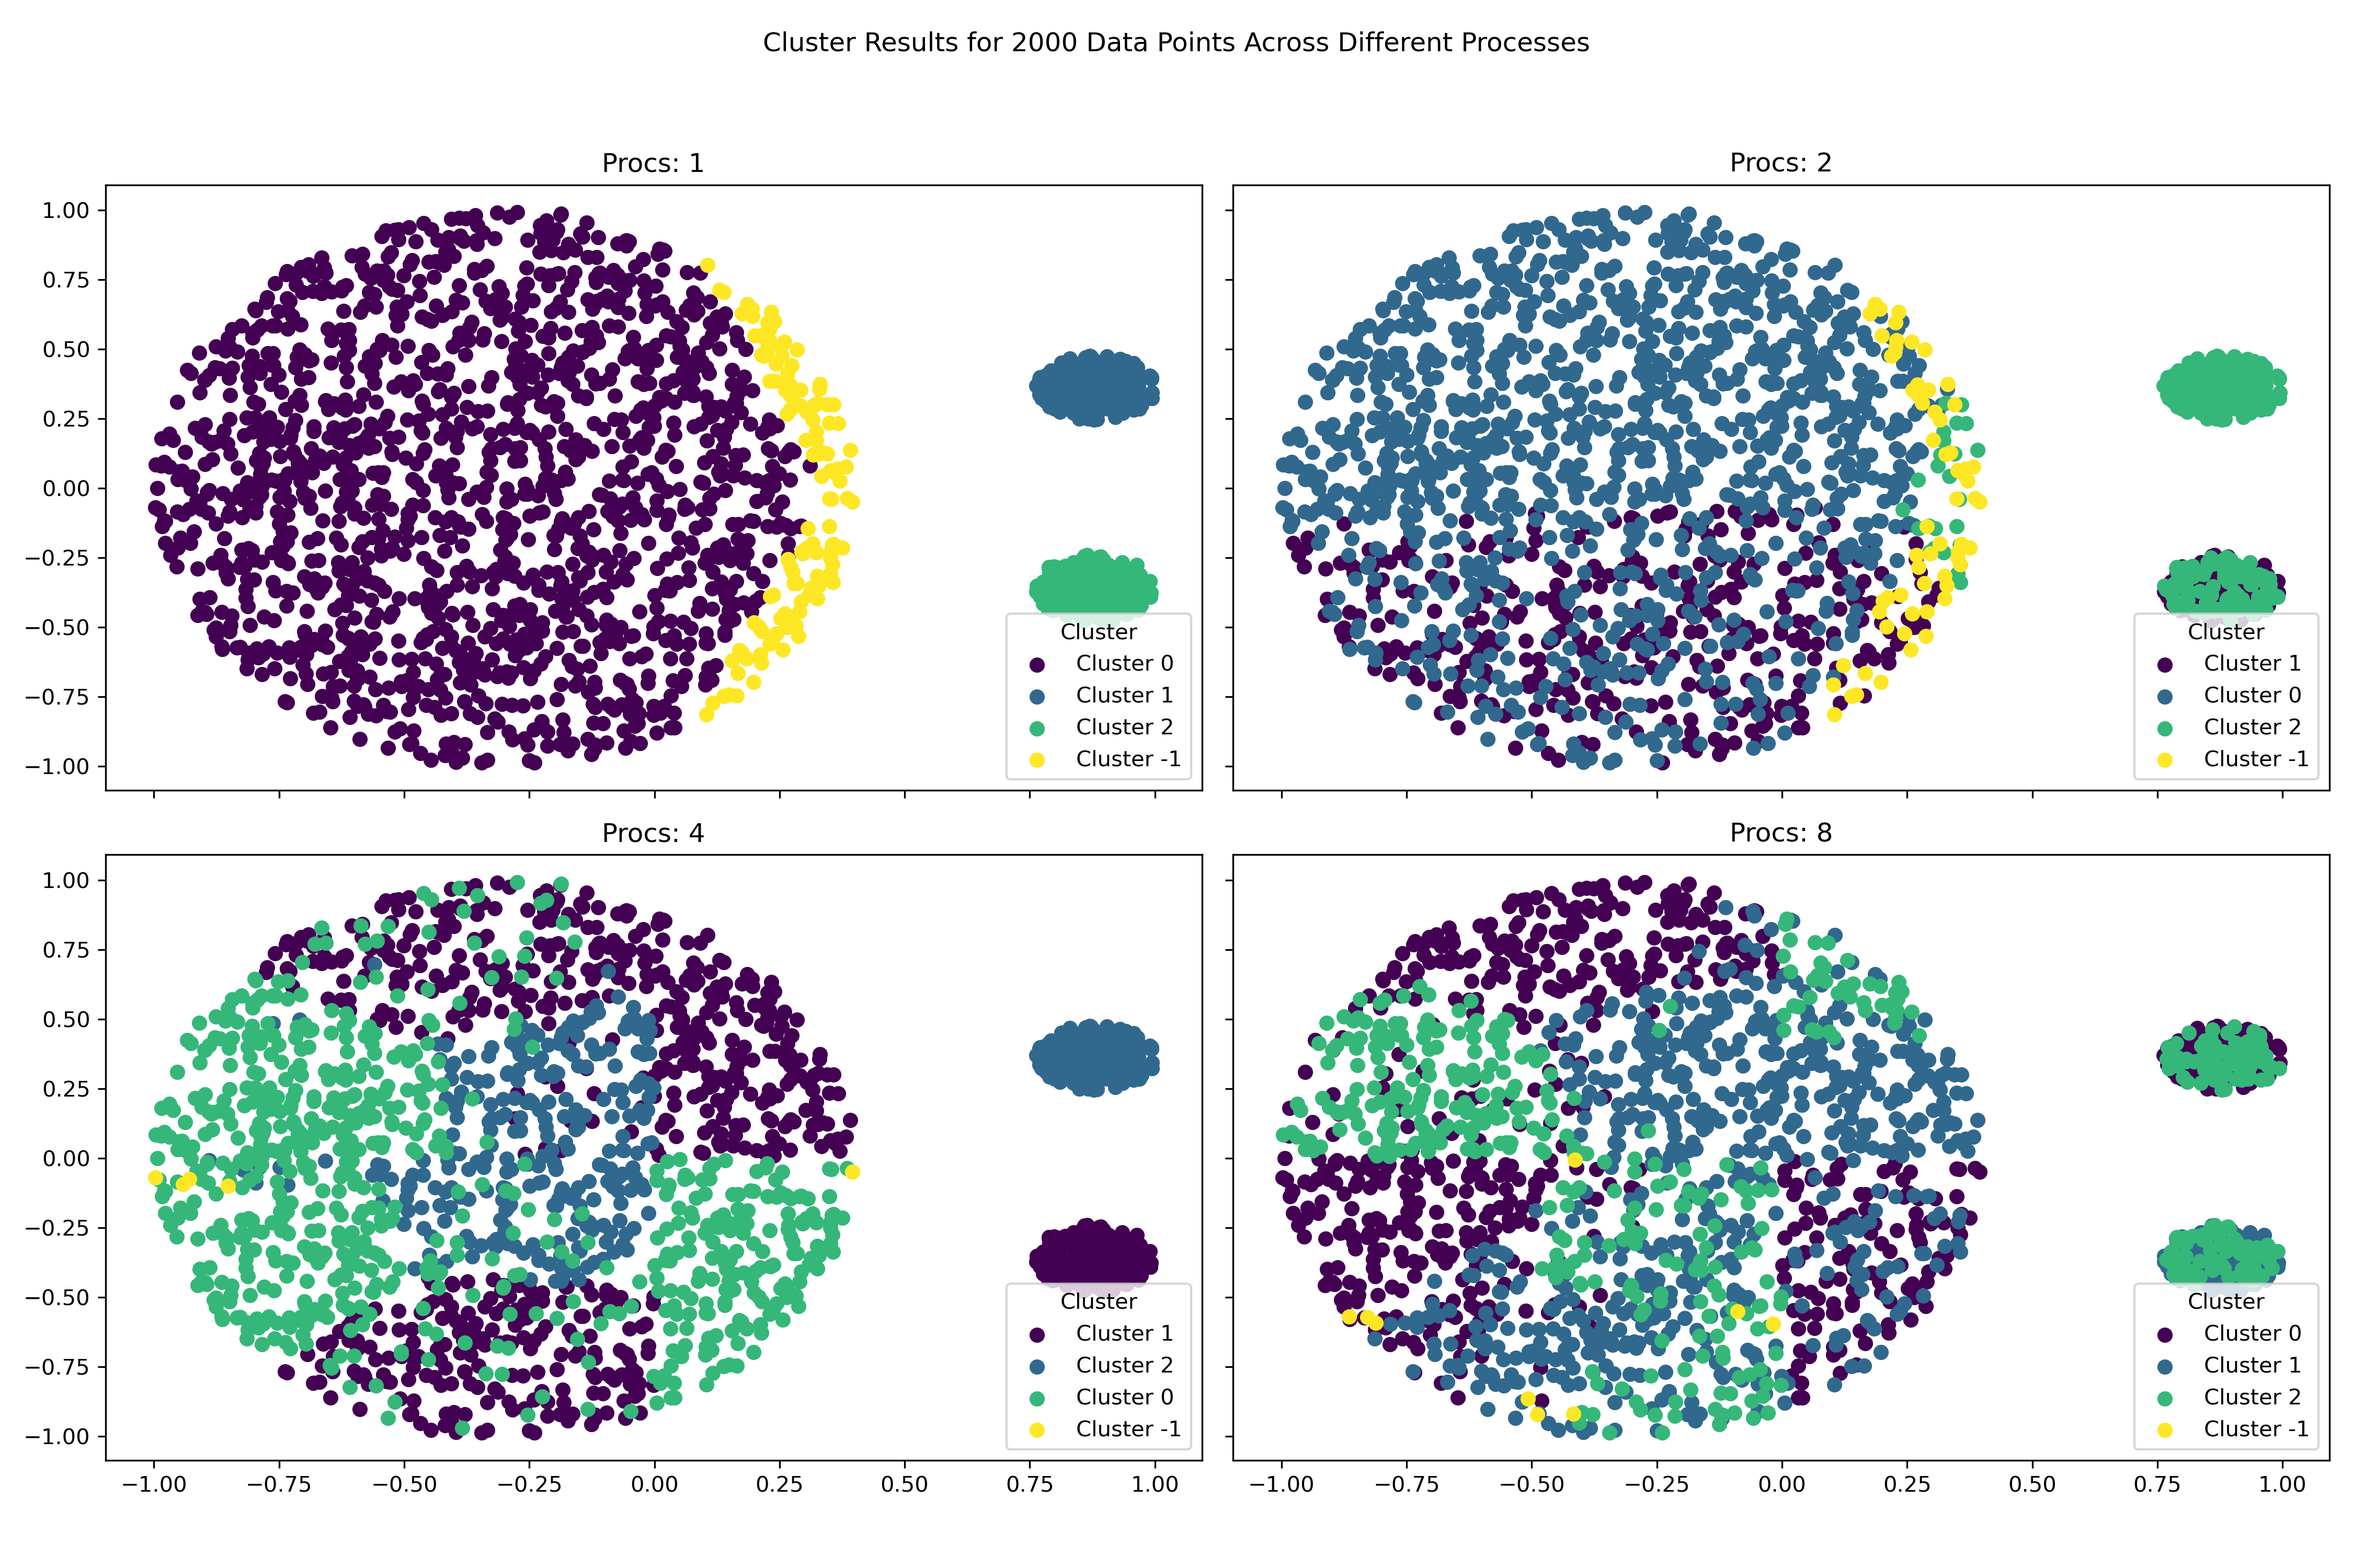
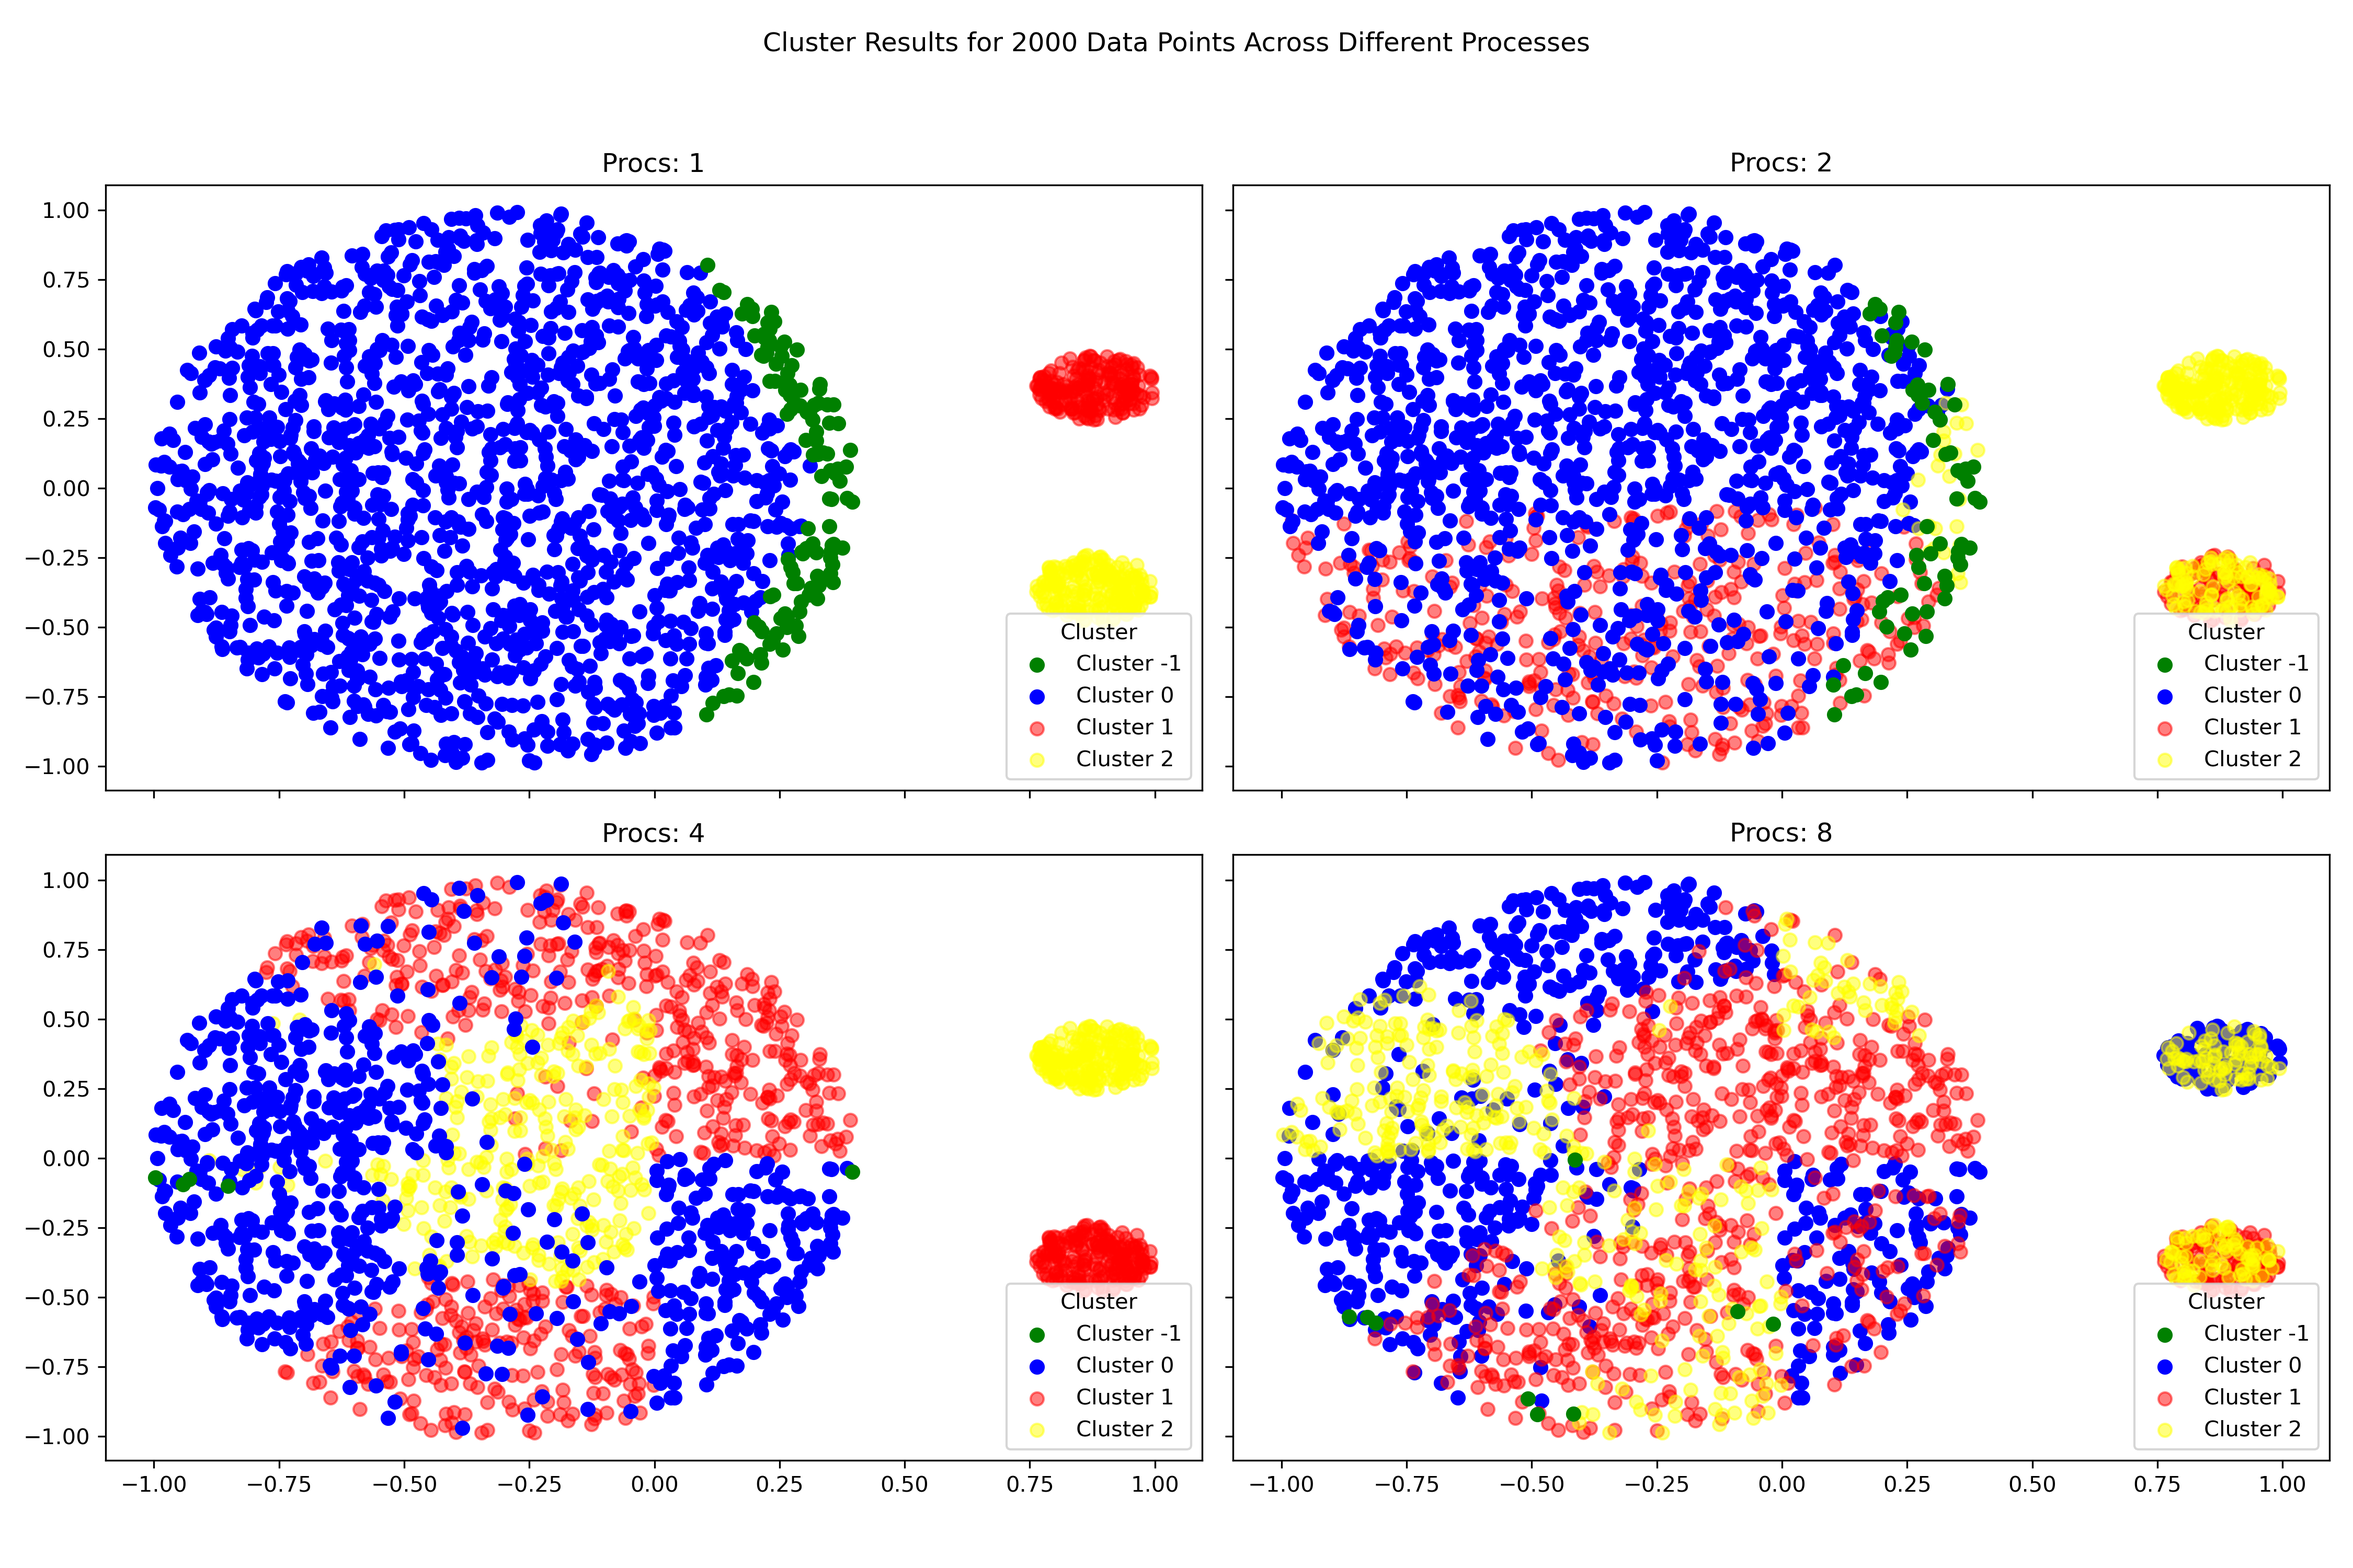
finalize python code

diff --git a/assets/Visualization/viz_clustering_from_multiple_files.py b/assets/Visualization/viz_clustering_from_multiple_files.py
@@ -3,13 +3,6 @@ import pandas as pd
 import numpy as np
 
 directory = './CURE-parallelization-main/assets/Visualization'
-# file_paths = [
-#     f'{directory}/cluster_result_2000data_procs1.csv',
-#     f'{directory}/cluster_result_2000data_procs2.csv',
-#     f'{directory}/cluster_result_2000data_procs4.csv',
-#     f'{directory}/cluster_result_2000data_procs8.csv'
-# ]
-
 
 file_paths = [
     f'{directory}/cluster_result_500data_procs1.csv',
@@ -20,35 +13,27 @@ file_paths = [
 
 dataframes = [pd.read_csv(file) for file in file_paths]
 
-# Create subplots
 fig, axs = plt.subplots(2, 2, figsize=(15, 10), sharex=True, sharey=True)
-# fig.suptitle('Cluster Results for 2000 Data Points Across Different Processes')
 fig.suptitle('Cluster Results for 500 Data Points Across Different Processes')
 
-# Define colors for each cluster label with specified adjustments
 color_map = {
-
-        0: 'blue',
-        -1: 'green',
-        1: (1.0, 0.0, 0.0, 0.5),  # Red with transparency
-        2: (1.0, 1.0, 0.0, 0.5)  # Yellow with transparency
-    }
+    0: 'blue',
+    -1: 'green',
+    1: (1.0, 0.0, 0.0, 0.5),
+    2: (1.0, 1.0, 0.0, 0.5)
+}
 
 for ax, df, procs in zip(axs.flatten(), dataframes, [1, 2, 4, 8]):
-    # Plot each label using the predefined color map
     unique_labels = df.iloc[:, 2].unique()
     for label in unique_labels:
         subset = df[df.iloc[:, 2] == label]
         ax.scatter(subset.iloc[:, 0], subset.iloc[:, 1], color=color_map[label], label=f'Cluster {label}')
     
     ax.set_title(f'Procs: {procs}')
-    
-    # Sort legend labels to maintain consistent order
     handles, labels = ax.get_legend_handles_labels()
     labels, handles = zip(*sorted(zip(labels, handles), key=lambda t: int(t[0].split(' ')[-1])))
     ax.legend(handles, labels, title='Cluster')
 
 plt.tight_layout(rect=[0, 0.03, 1, 0.95])
 plt.savefig('cluster_results_without.png', dpi=300)
-# plt.savefig('cluster_results.png', dpi=300)
 plt.show()
